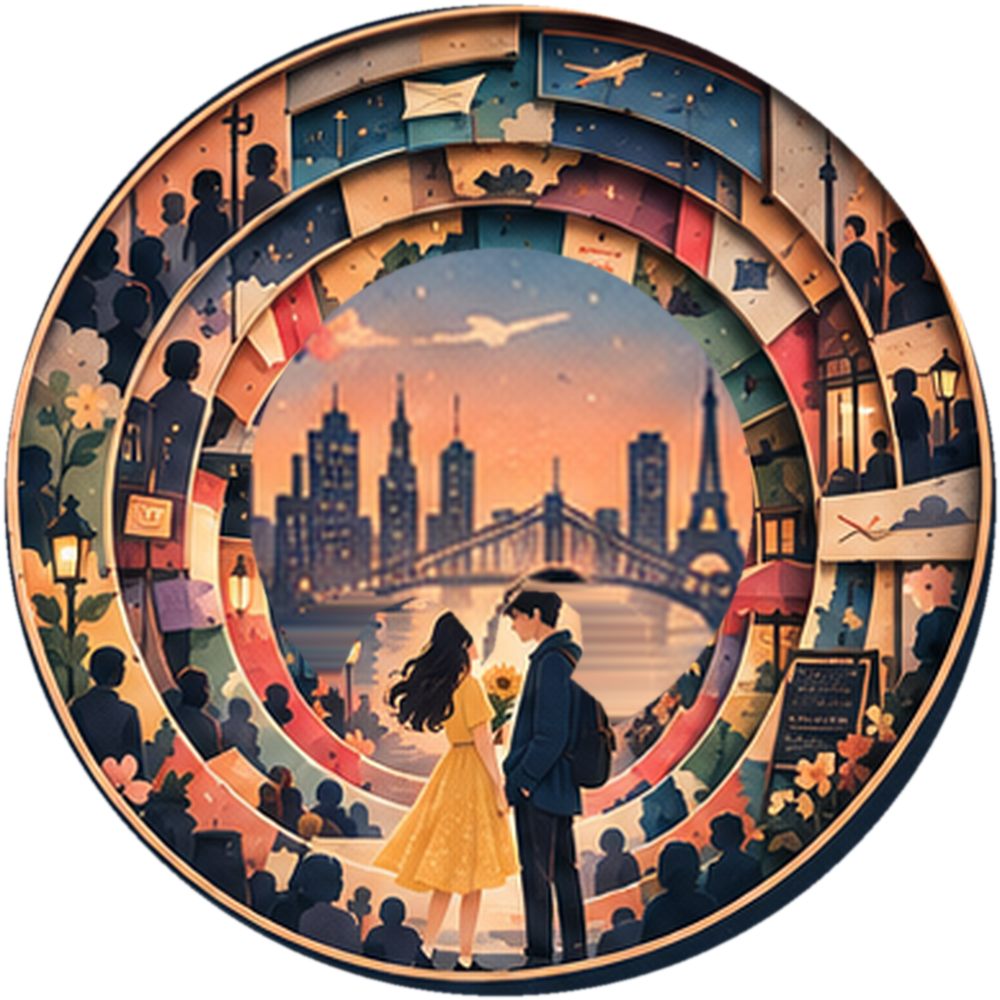
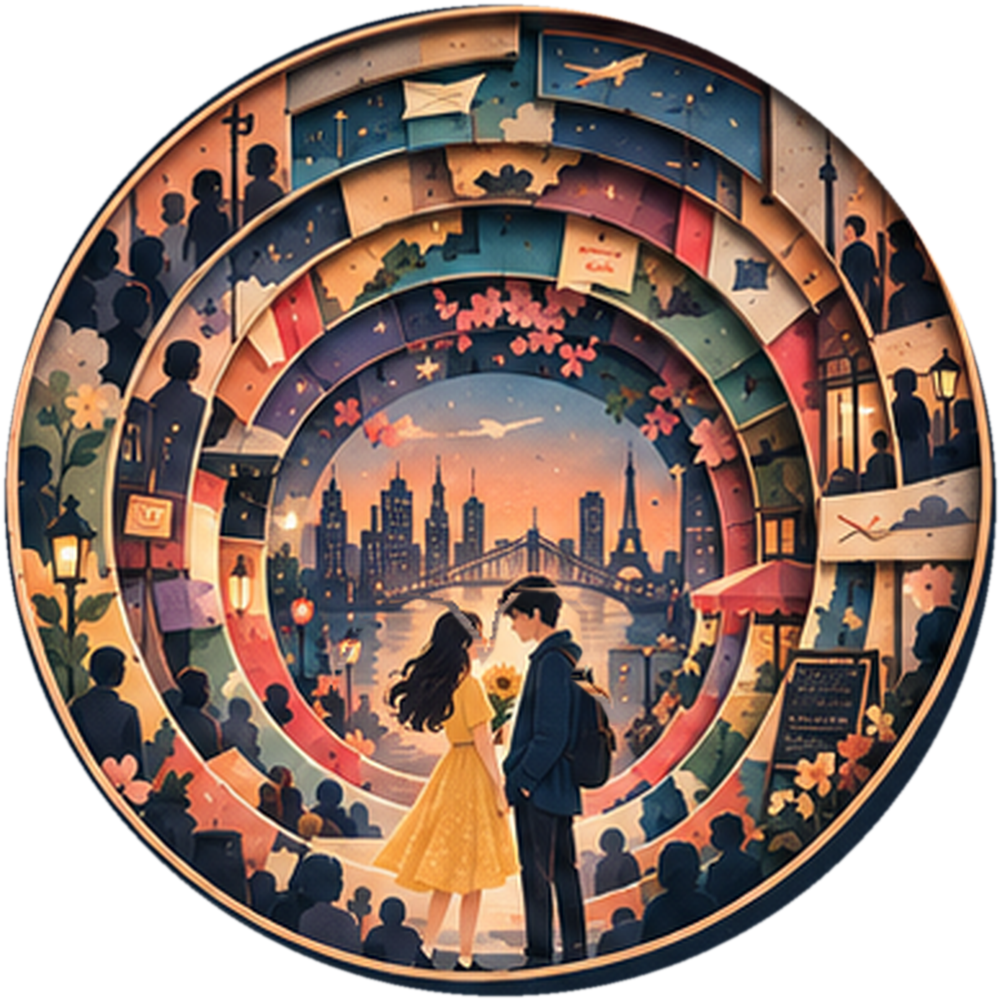
Align Three Meeting Theory chapter portal centre

Changed region(s): [[0.248, 0.248, 0.775, 0.744]]

diff --git a/shared/web/portal-art.js b/shared/web/portal-art.js
@@ -12,7 +12,7 @@ export const portalPictures = Object.freeze({
   fashion:{src:'assets/fashion-scene-v2.png',alt:'A red-and-white sneaker, hanging clothes and shoeboxes in a warm room overlooking the city.',zoom:1,x:0,y:0},
   motherRussia:{src:'assets/mother-russia-scene-v2.png',alt:'A glowing wooden cabin in snow faces a river and imagined city beneath a winter moon.',zoom:1,x:0,y:0},
   motherRussiaCover:{src:'assets/mother-russia-cover-scene-v2.png',alt:'A glowing cabin beside a snowy river faces an imagined city beneath a winter moon.',zoom:1,x:0,y:0},
-  threeMeeting:{src:'assets/three-meeting-scene-v2.png',alt:'A sunset city, river and bridge seen through the Three Meeting Theory portal.',zoom:1,x:0,y:0},
+  threeMeeting:{src:'assets/three-meeting-scene-v2.png?v=3',alt:'A sunset city, river and bridge seen through the Three Meeting Theory portal.',zoom:1,x:0,y:0},
   threeMeetingCover:{src:'assets/three-meeting-cover-scene-v2.png?v=2',alt:'Two people meet before a sunset bridge and skyline inside the homepage book ring.',zoom:1,x:0,y:0},
   datingAlgorithm:{src:'assets/dating-algorithm-scene-v2.png',alt:'Two people sit together at a lamplit table before a moonlit city, framed by dating profiles and signals.',zoom:1,x:0,y:0},
   datingAlgorithmCover:{src:'assets/dating-algorithm-cover-scene-v2.png',alt:'Two people share a date beneath a crescent moon inside the homepage book ring.',zoom:1,x:0,y:0},

diff --git a/chapters/three-meeting-theory/web/index.html b/chapters/three-meeting-theory/web/index.html
@@ -6,7 +6,7 @@
     <a class="btn ghost" href="#explore">THE THIRD INTERSECTION ↗</a>
     <a class="btn ghost" href="#watch">WATCH ▷</a>
   </div>
-  <img class="hero-portal" src="assets/three-meeting-portal-v2.png" width="1000" height="1000" alt="A woman and man meet before a sunset bridge, surrounded by paper layers of crowds, flowers and travel memories.">
+  <img class="hero-portal" src="assets/three-meeting-portal-v2.png?v=3" width="1000" height="1000" alt="A woman and man meet before a sunset bridge, surrounded by paper layers of crowds, flowers and travel memories.">
 </section><main><section class="reading" id="read"><figure class="reading-spread">
   <img src="assets/three-meeting-spread-v2.webp" width="1600" height="600" alt="Two people meet near a flower-lined cafe, with a bridge and city skyline beyond.">
   <figcaption>A crowd / A glance / Another time</figcaption>

diff --git a/scripts/cut_three_meeting_board.py b/scripts/cut_three_meeting_board.py
@@ -43,22 +43,28 @@ def cut():
                   for x, y in pair_outline], fill=255)
     ring.putalpha(mask.filter(ImageFilter.GaussianBlur(1.15)))
 
-    # Remove the foreground pair from the *stationary* scene, retaining the
-    # board's actual sunset, skyline and bridge. Fill only their silhouette
-    # from the river colours on either side at the same height.
-    scene_box = (137, 159, 287, 309)
+    # Match the aperture's field of view in the 388 px source circle. Its
+    # 624/1000 diameter is 242 source pixels, centred on the same point as
+    # MAIN_BOX. The old 150 px crop enlarged the bridge and broke the seam.
+    # Remove the foreground pair from this stationary layer; their complete
+    # silhouettes remain on the rotating ring above it.
+    aperture_size = round((MAIN_BOX[2] - MAIN_BOX[0]) * 624 / SIZE)
+    centre_x = (MAIN_BOX[0] + MAIN_BOX[2]) // 2
+    centre_y = (MAIN_BOX[1] + MAIN_BOX[3]) // 2
+    scene_box = (centre_x - aperture_size // 2, centre_y - aperture_size // 2,
+                 centre_x + aperture_size // 2, centre_y + aperture_size // 2)
     scene_source = board.crop(scene_box)
     people_mask = Image.new('L', scene_source.size)
     ImageDraw.Draw(people_mask).polygon([(x - scene_box[0], y - scene_box[1])
                                          for x, y in pair_outline], fill=255)
-    people_mask = people_mask.filter(ImageFilter.MaxFilter(7))
+    people_mask = people_mask.filter(ImageFilter.MaxFilter(5))
     for y in range(scene_source.height):
         occupied = [x for x in range(scene_source.width) if people_mask.getpixel((x, y))]
         if not occupied:
             continue
         left, right = occupied[0], occupied[-1]
-        left_colour = scene_source.getpixel((max(0, left - 2), y))
-        right_colour = scene_source.getpixel((min(scene_source.width - 1, right + 2), y))
+        left_colour = scene_source.getpixel((max(0, left - 3), y))
+        right_colour = scene_source.getpixel((min(scene_source.width - 1, right + 3), y))
         for x in occupied:
             blend = (x - left) / max(1, right - left)
             scene_source.putpixel((x, y), tuple(round(a * (1 - blend) + b * blend)

diff --git a/chapters/three-meeting-theory/docs/DESIGN_ADAPTATION.md b/chapters/three-meeting-theory/docs/DESIGN_ADAPTATION.md
@@ -1,6 +1,6 @@
 # Three Meeting Theory digital-book design adaptation
 
-The author's board is preserved unchanged at `references/design/relationshio_modelling - three meeting theory.png` (including the source filename's spelling). `scripts/cut_three_meeting_board.py` derives the transparent collage ring, sunset city-and-bridge centre, homepage centre, complete rectangular cafe/city vignette and circular composition proof. Both foreground figures remain on the turning ring, so their heads and bodies move together. The stationary centre contains the board's skyline and bridge with the couple cleared from the river area.
+The author's board is preserved unchanged at `references/design/relationshio_modelling - three meeting theory.png` (including the source filename's spelling). `scripts/cut_three_meeting_board.py` derives the transparent collage ring, sunset city-and-bridge centre, homepage centre, complete rectangular cafe/city vignette and circular composition proof. Both foreground figures remain on the turning ring, so their heads and bodies move together. The stationary centre contains the board's skyline and bridge with the couple cleared from the river area. Its source crop matches the ring aperture's 624/1000 field of view; this keeps the bridge and skyline aligned where the two layers meet.
 
 The homepage retains the common book-cover ring and changes its centre at this stop to the board's complete meeting pair against the sunset bridge. The chapter map and Chapter 17 reading leaf use the dedicated Three Meeting Theory ring with the pair on the turning frame and a separate skyline centre. The map artwork turns with the reader's drag and settles upright when selected, keeping the pair legible. The reading leaf and desktop book preview show the full rectangular vignette. The separate immersive page uses the same circular portal and vignette while retaining the approved essay and Third Intersection interaction.
 
